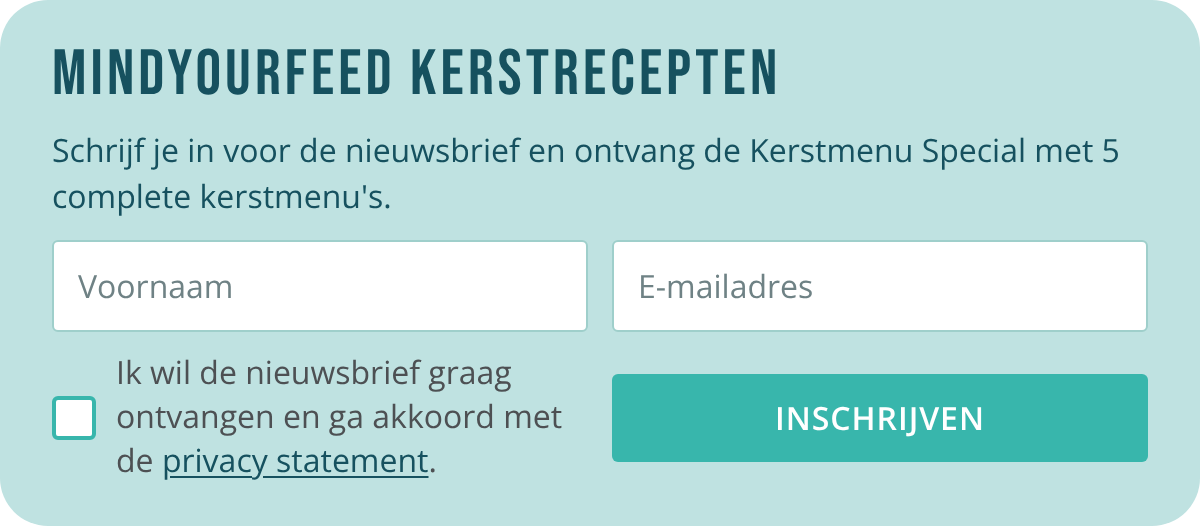
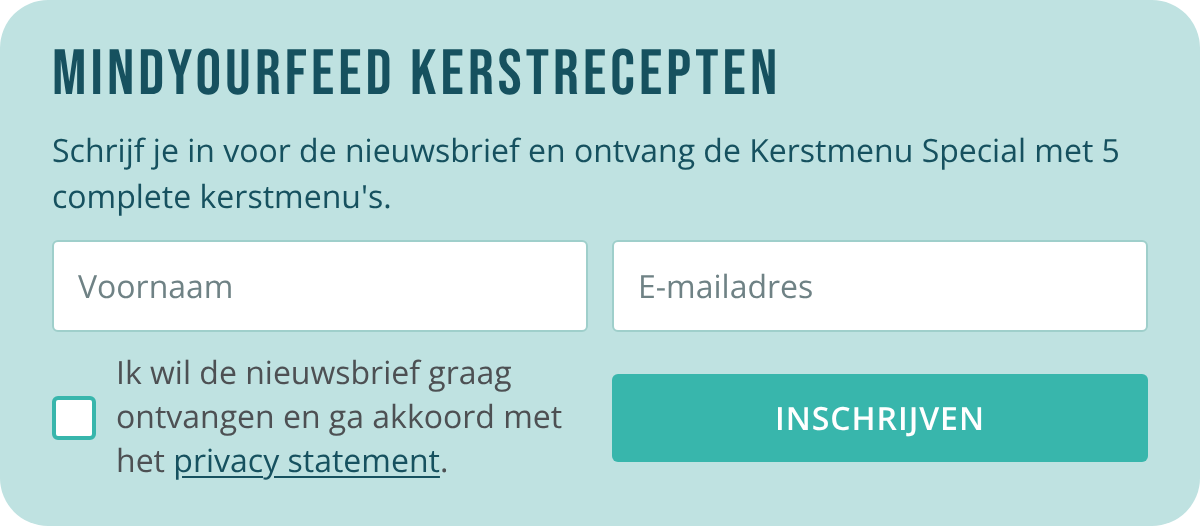
Formulier: 'het privacy statement'
Claude-Session: https://claude.ai/code/session_01JBZXqu2oGCoAAGo6aGaeXU

Changed region(s): [[0.0925, 0.8485, 0.37, 0.9091]]

diff --git a/formulieren/nieuwsbrief-kerstrecepten.html b/formulieren/nieuwsbrief-kerstrecepten.html
@@ -350,7 +350,7 @@
                   <div class="entry__choice">
                     <label>
                       <input type="checkbox" class="input_replaced" value="1" id="OPT_IN" name="OPT_IN" required />
-                      <span class="checkbox checkbox_tick_positive"></span><span class="myf-toestemming-tekst"><p>Ik wil de nieuwsbrief graag ontvangen en ga akkoord met de <a href="https://www.mindyourfeed.nl/privacy-statement/" target="_blank" rel="noopener">privacy statement</a>.</p></span>
+                      <span class="checkbox checkbox_tick_positive"></span><span class="myf-toestemming-tekst"><p>Ik wil de nieuwsbrief graag ontvangen en ga akkoord met het <a href="https://www.mindyourfeed.nl/privacy-statement/" target="_blank" rel="noopener">privacy statement</a>.</p></span>
                     </label>
                   </div>
                 </div>
